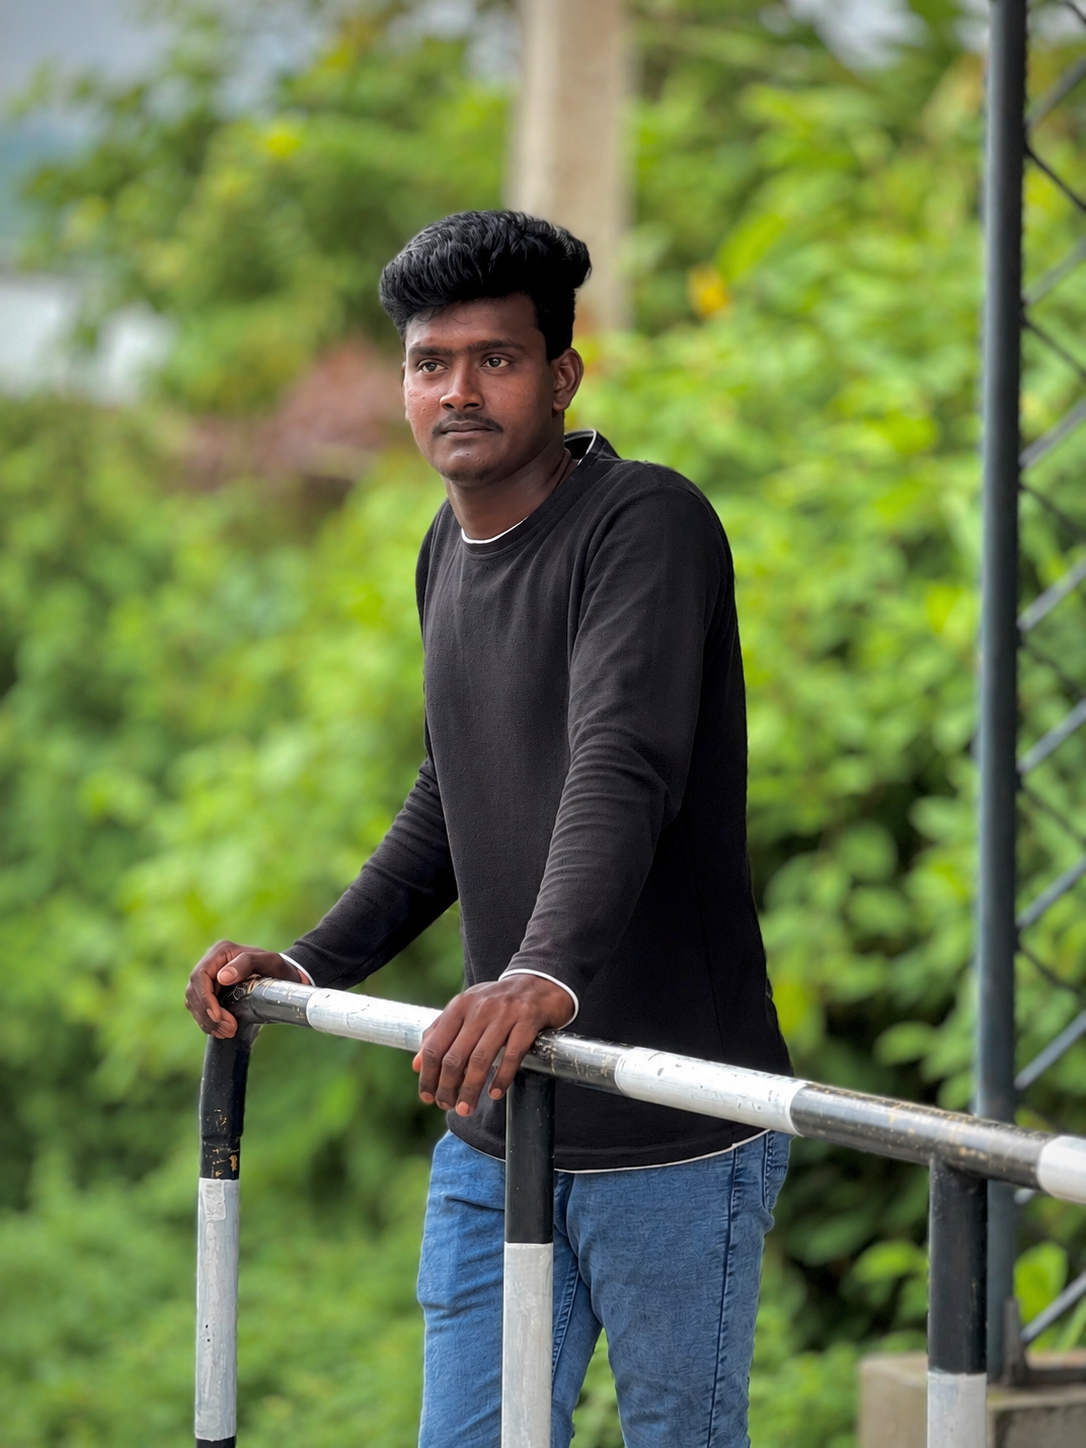
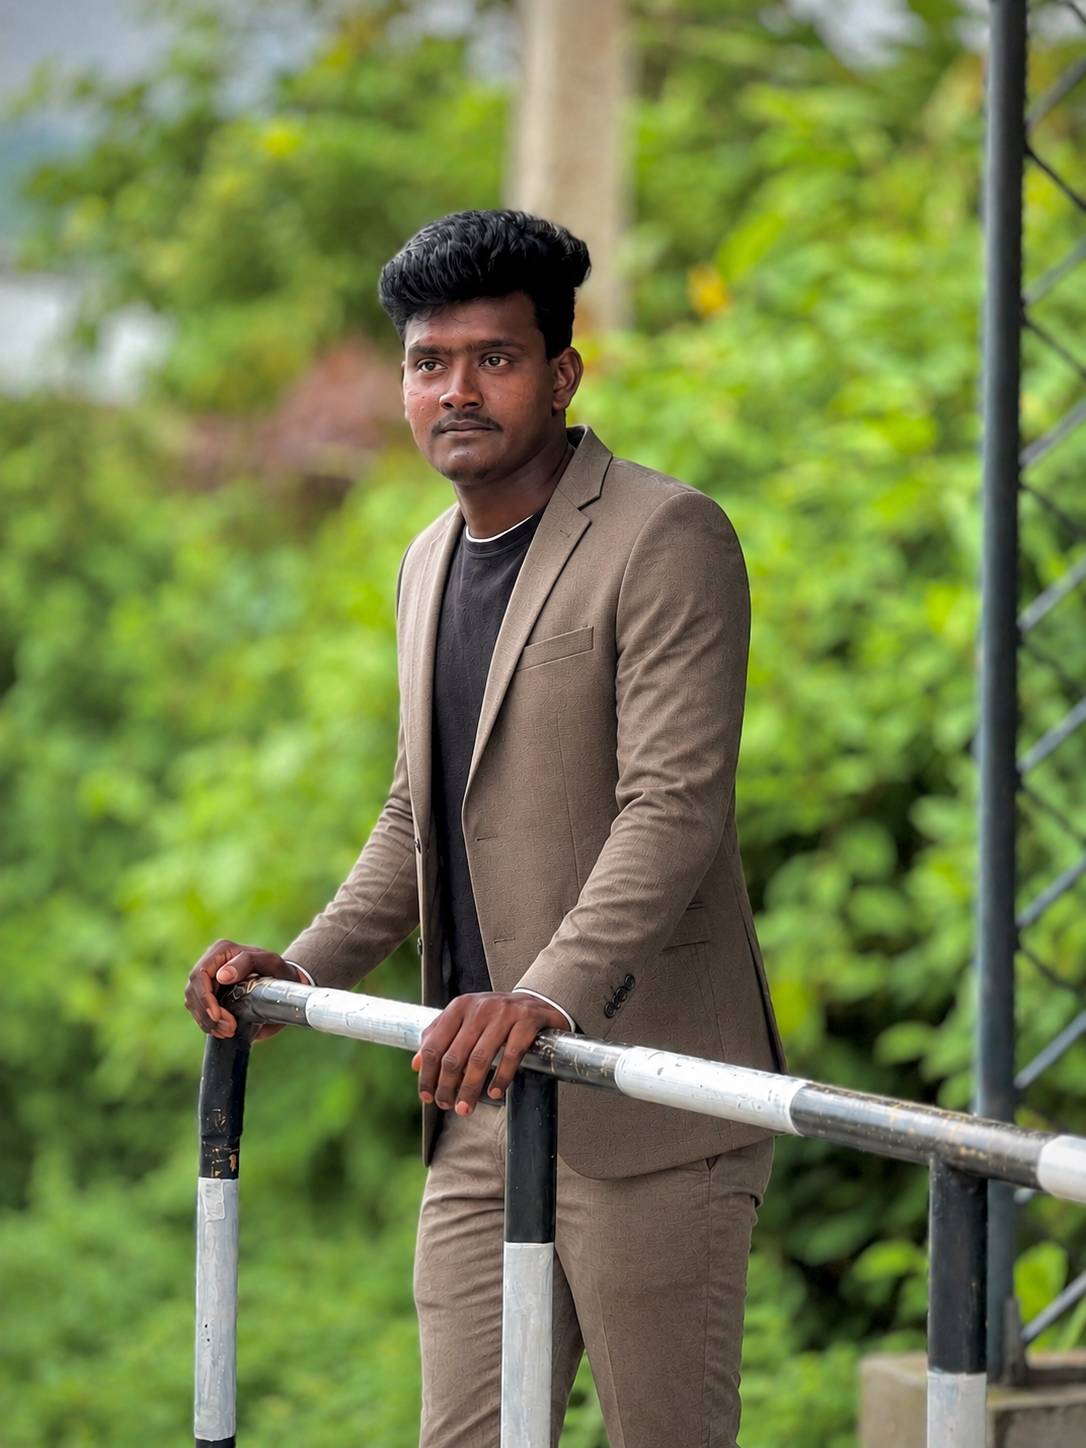
code changes

Changed region(s): [[0.1823, 0.2175, 0.7293, 1.0], [0.1823, 0.7459, 0.2127, 0.8391], [0.3646, 0.1554, 0.4254, 0.1865]]

diff --git a/src/sections/Founders.tsx b/src/sections/Founders.tsx
@@ -1,4 +1,5 @@
 import { motion } from 'framer-motion';
+import { Facebook, Instagram } from 'lucide-react';
 
 interface Founder {
   id: number;
@@ -101,6 +102,16 @@ const Founders = () => {
                   <p className="text-white/50 text-sm leading-relaxed mb-8 flex-grow whitespace-pre-line">
                     {founder.bio}
                   </p>
+
+                  {/* Social Icons (Visual Only) */}
+                  <div className="flex items-center gap-5">
+                    <span className="text-white/40 hover:text-white transition-colors cursor-default">
+                      <Facebook size={20} />
+                    </span>
+                    <span className="text-white/40 hover:text-white transition-colors cursor-default">
+                      <Instagram size={20} />
+                    </span>
+                  </div>
                 </div>
               </div>
             </motion.div>